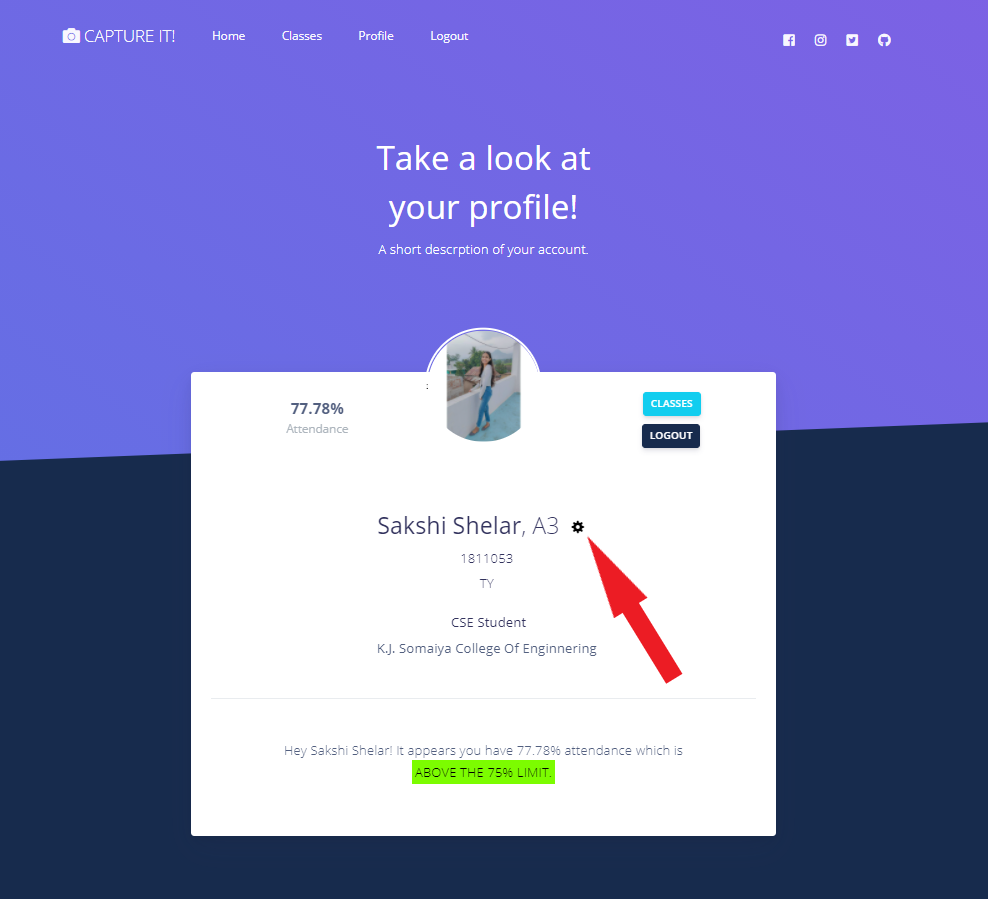
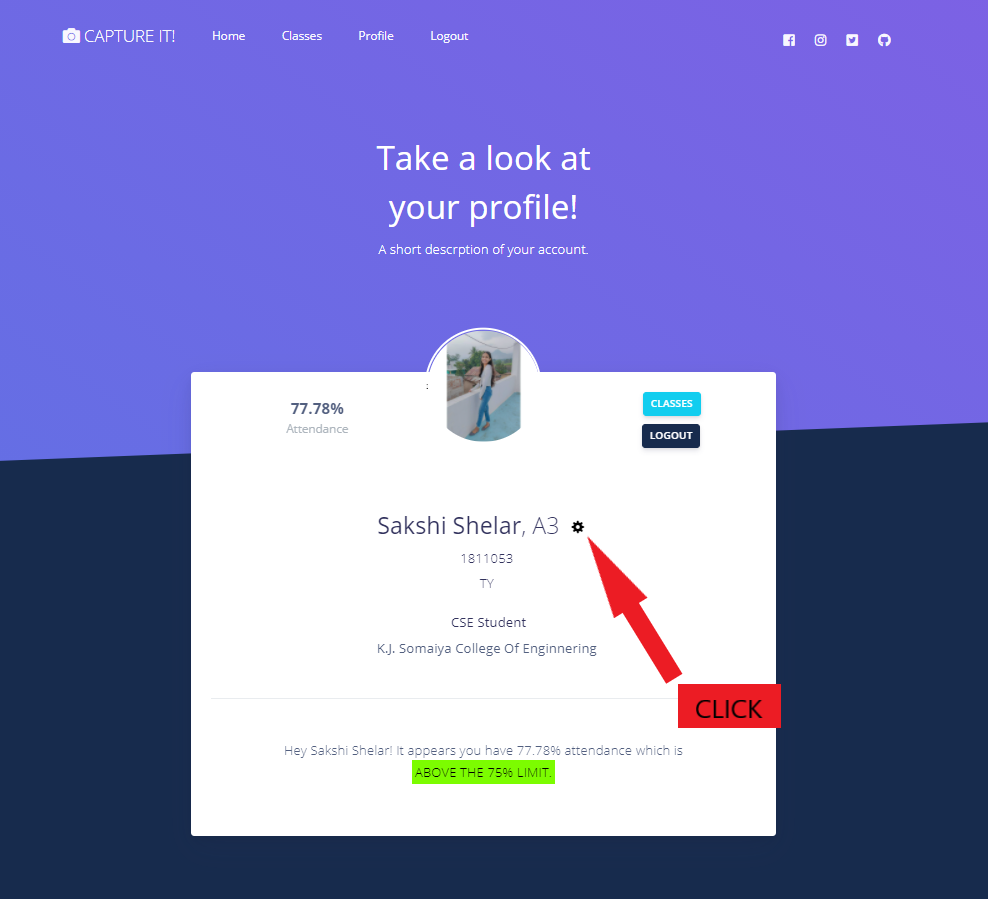
Updated Readme

Changed region(s): [[0.668, 0.7475, 0.7895, 0.8098]]

diff --git a/README.md b/README.md
@@ -396,13 +396,43 @@ Log in to your teacher's account.
 
     ![product](./images/profileAttend.png)
 
-    - Update Profile picture 
+5. Update Details
+
+    #### **Update Profile picture**
+
+    - Click on the profile photo to open the form. A modal will appear and then you can select the photo of your choice.
 
     ![product](./images/updateProfile1.png)
 
     ![product](./images/updateProfile2.png)
 
+    - Once the photo is updated, you will be notified and the change will reflect on your profile.
+
     ![product](./images/updateProfile3.PNG)
+
+    #### **Update Profile details**
+
+    - Click on the settings button to open the form. A modal will appear and then you can change the details of your choice
+
+    ![product](./images/updateStudentDetails1.png)
+
+    ![product](./images/updateStudentDetails2.PNG)
+
+    - After submitting the form, the profile will be updated.
+
+    ![product](./images/updateStudentDetails3.PNG)
+
+    #### **Update Class details**
+
+    - Click on the settings button of the required class to open the form. A modal will appear and then you can change the class details of your choice
+
+    ![product](./images/updateClassDetails1.png)
+
+    - After submitting the form, the class details will be updated.
+
+    ![product](./images/updateClassDetails2.PNG)
+
+
     
 
 #### **Exporting to XLSX:** 
